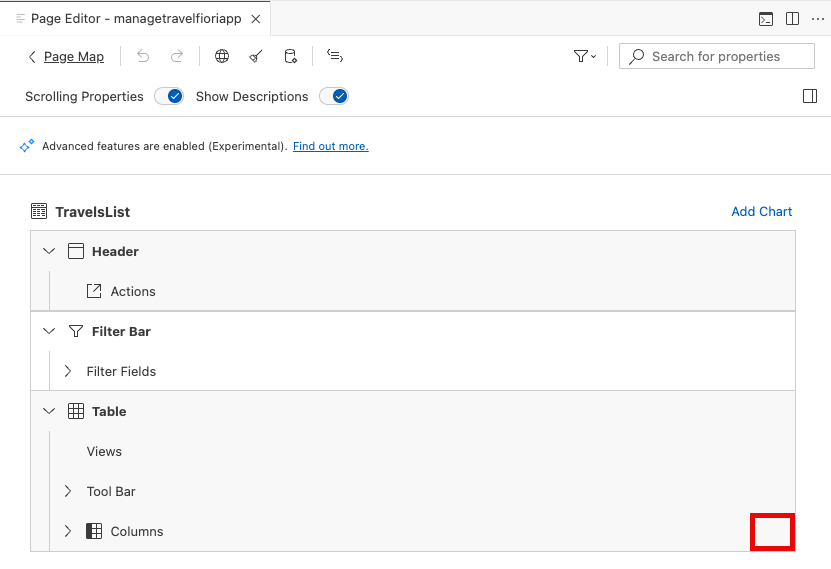
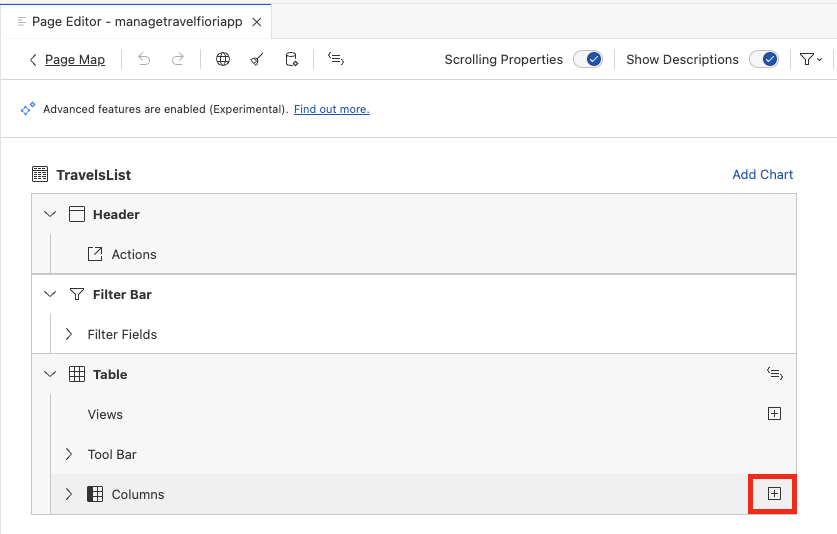
Updates following review

diff --git a/exercises/ex3/README.md b/exercises/ex3/README.md
@@ -52,6 +52,8 @@ As a next step we want to enhance our AI generated app. To do this switch back f
 
 Now you can see the page map for our AI generated Travel app. Please check if you can see the **Advanced features are enabled (Experimental)** sign up top. If this is the case, press the edit button on the list report.
 
+**Note:** If your generated application's page map does not look like this, consider re-generating the application.
+
 ![image](ex3img8.png)
 
 As the next step, we want to add an additional column that indicates wether it is a business flight, and another one showing the flight destination.\
